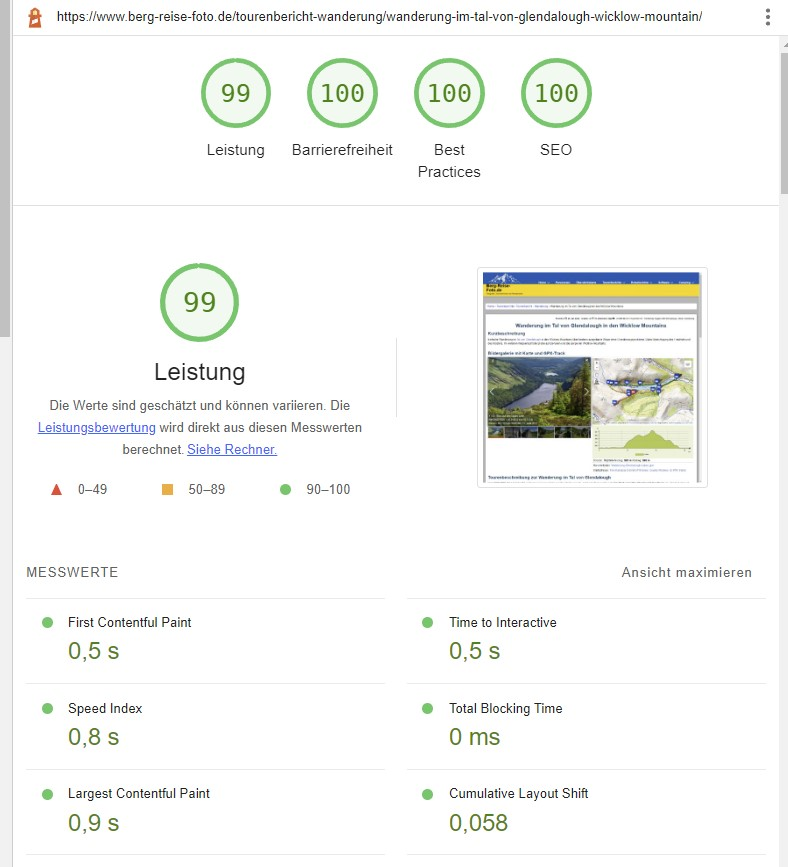
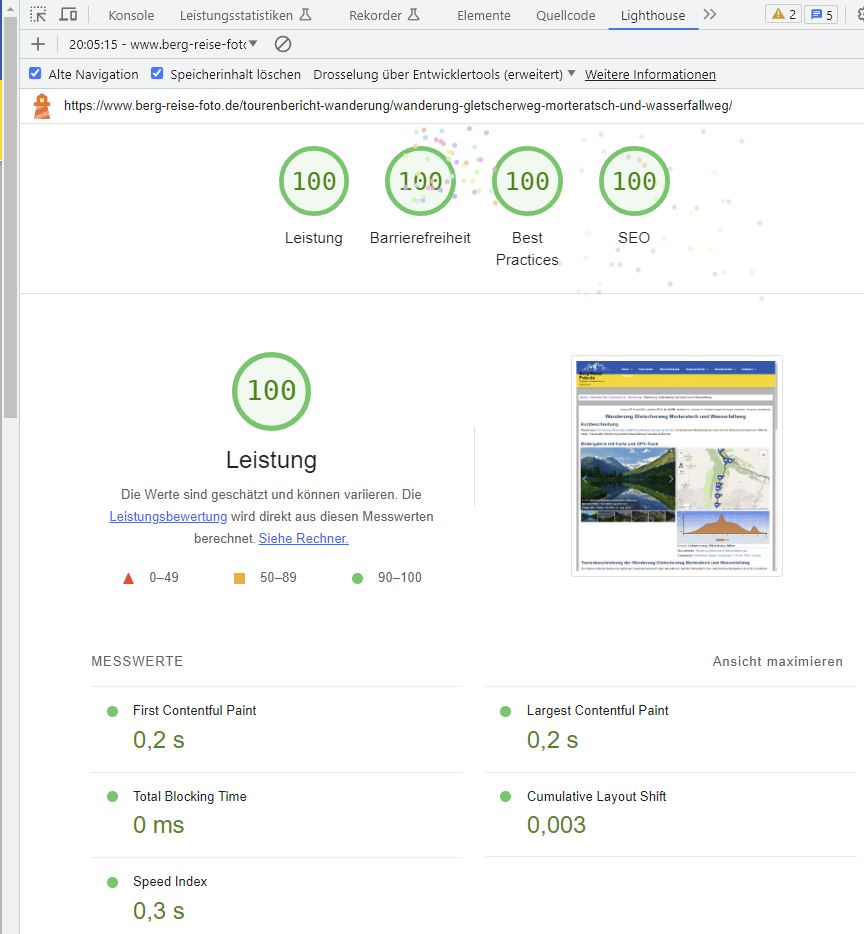
readme update

diff --git a/readme.md b/readme.md
@@ -22,8 +22,6 @@
 
 # Description 
 
-**NOTE: Plugin is currently NOT working. Please wait for an update.**
-
 WordPress-Plugin to show a responsive Image Slider with images located in a separate FOLDER on your server or even in the WordPress Media Library. A thumbnail bar could be shown together with the image slider. Fotorama or Swiper is used for the slider. The Fotorama slider only works with JPG- or WEBP-Files an not with videos. Swiper works with Videos, too.
 
 **NEW** Show a simple Masonry Gallery with your images from a dedicated Folder! Use only once per page if you like the info popup window.
@@ -40,7 +38,7 @@ The Admin panel gives an overview of all shortcode parameters and allow to set t
 
 **NEW:Settings may be done with a Gutenberg Block. But Version 0.16.+ not updated yet!!!** also (except: "showalltracks", "mapcenter", "zoom", "markertext"). But there is NO preview in Editor, it is still necessary to refresh the page on the frontend. Attention: Gutenberg is currently not up to date.
 
-**The Plugin runs from WordPress 5.9 - 6.2 and PHP 7.4 - 8.2.0**
+**The Plugin runs from WordPress 5.9 - 6.2.2 and PHP 7.4.2 - 8.2.0**
 
 </br>
 
@@ -68,7 +66,7 @@ or any other travel or tour report on my page.
 ![screenshot_live_site](./fotorama1.png)
 
 # Performance
-It is possible to reach a Google lighthouse Performance of 99 and 100 for the other values (Swiper only)! All values depend on the selected WordPress theme and server performance, too.
+It is possible to reach a Google lighthouse Performance of 100 for the all values (Swiper only)! All values depend on the selected WordPress theme and server performance, too. Other settings : Please contact me, if you are interested.
 
 ![screenshot_lighthouse](./swiper-leaflet-perf.jpg)
 
